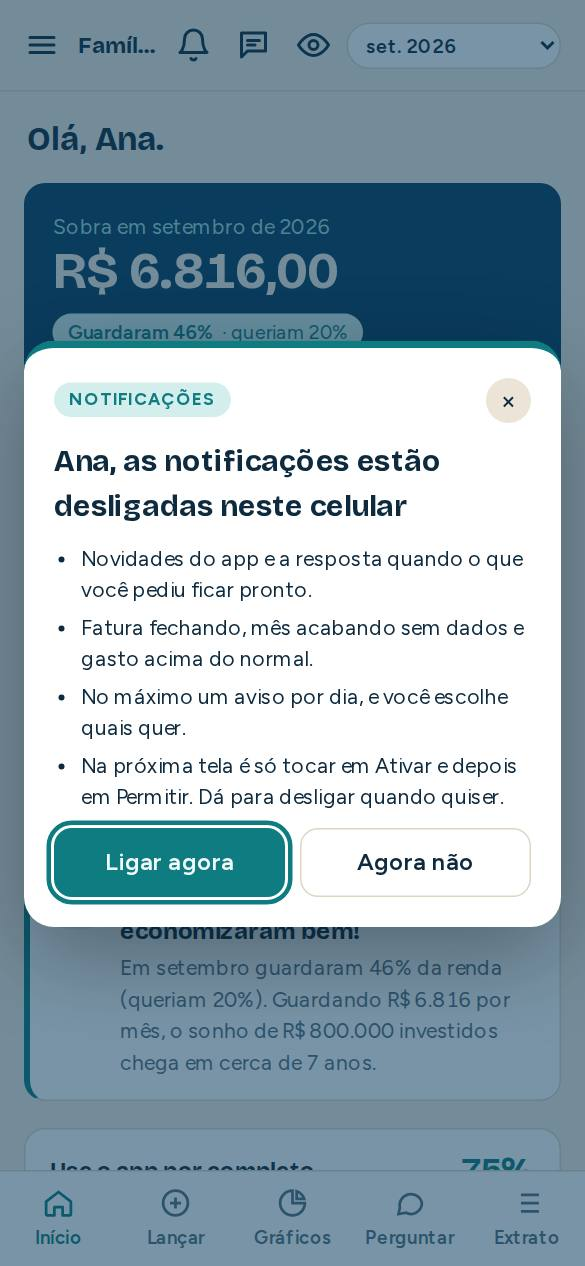
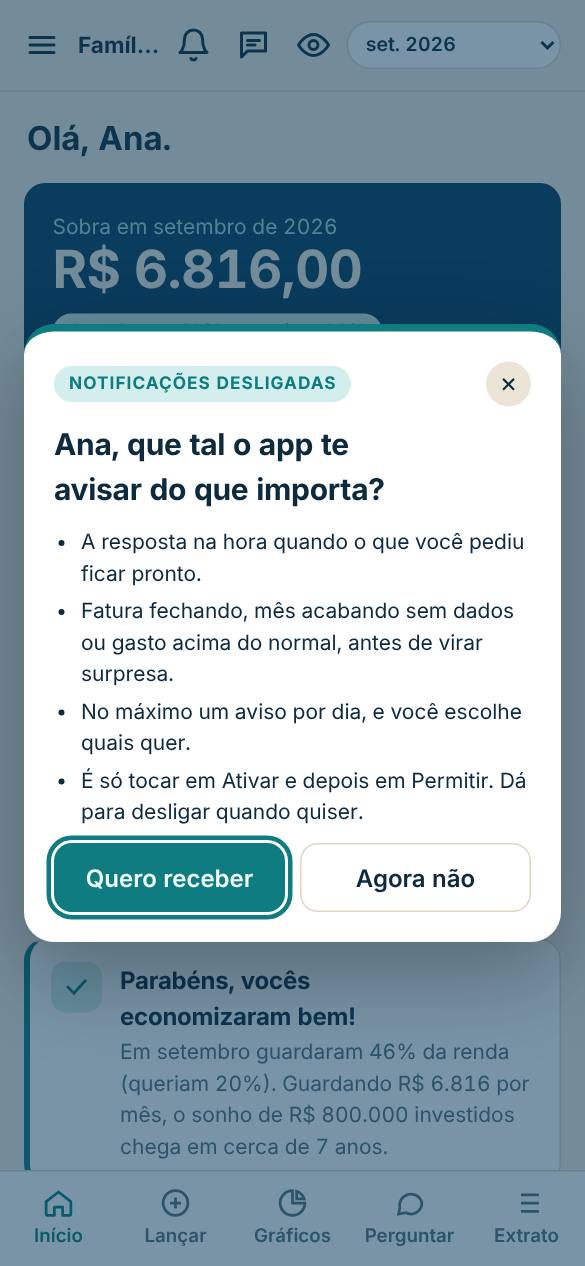
v62: invite-style text for the notifications-off pop-up
Claude-Session: https://claude.ai/code/session_01HTxyDPPEQrF1SknoQ9axHM

diff --git a/public/sw.js b/public/sw.js
@@ -1,6 +1,6 @@
 // Service worker: caches the app shell so it opens fast and installs as an app.
 // Data and /api calls always go to the network.
-const VERSION = 'v61';
+const VERSION = 'v62';
 const SHELL = ['/', '/index.html', '/css/app.css', '/js/main.js', '/js/db.js', '/js/ai.js', '/js/ui.js', '/js/state.js', '/js/speech.js', '/js/tour.js', '/js/steps.js', '/js/onboarding.js', '/js/art.js', '/js/install.js', '/js/push.js', '/js/metrics.js', '/js/privacy.js', '/js/lib/recurring.js', '/js/lib/settle.js', '/js/photos.js', '/js/menu.js', '/js/coach.js', '/js/views/graficos.js', '/js/views/fechar.js', '/js/lib/closing.js', '/js/lib/charts.js', '/js/lib/receipt.js', '/js/lib/insights.js', '/js/lib/budget.js', '/js/lib/pricing.js', '/js/lib/faq.js', '/js/feedback.js', '/js/usage.js', '/js/lib/navlog.js', '/js/applepay.js', '/js/lib/quick.js', '/js/lib/feed.js', '/js/messages.js', '/js/lib/news.js',
   '/js/lib/format.js', '/js/lib/calc.js', '/js/lib/categorize.js', '/js/lib/parse.js', '/js/lib/validate.js',
   '/js/views/resumo.js', '/js/views/lancar.js', '/js/views/perguntar.js', '/js/views/extrato.js', '/js/views/ajustes.js',

diff --git a/public/js/lib/releases.js b/public/js/lib/releases.js
@@ -128,4 +128,5 @@ export const RELEASES = [
   ] }, addBacklog: [
     { id: 'avisar_notificacao_desligada', title: 'Avisar quando as notificações estão desligadas e levar para ligar', status: 'feito', origin: 'Luiz', effort: 'P', problem: 'Ninguém procura ligar as notificações sozinho; sem elas, a pessoa não fica sabendo das novidades nem das respostas', cost: false, notes: 'Não força: o celular só pede permissão depois de um toque. O app avisa (pop-up com o nome, a cada 3 dias, até 4 vezes por celular, só quando não há outro pop-up), leva para menu ☰ → Notificações com o botão em destaque, e o menu mostra "Desligadas neste celular". Bloqueadas nos ajustes: mostra como liberar.', from: [], where: 'Ao abrir o app; menu ☰ → Notificações' },
   ] },
+  { id: 'r62', version: 'v62', at: '2026-11-03T14:05:00Z', backlog: [], semNovidade: 'Só o texto do aviso de notificações desligadas ficou mais convidativo ("que tal o app te avisar do que importa?"); a novidade já foi contada na v61.' },
 ];

diff --git a/public/js/usage.js b/public/js/usage.js
@@ -5,7 +5,7 @@ import * as db from './db.js';
 import { S } from './state.js';
 import { tapCell, tapLabel, cleanError } from './lib/navlog.js';
 
-export const APP_VERSION = 'v61';
+export const APP_VERSION = 'v62';
 const OK = /^[a-z_]{2,20}(\.[a-z_]{2,20})?$/;
 export const device = () => { const u = navigator.userAgent; return (/iphone|ipad/i.test(u) ? 'iPhone' : /android/i.test(u) ? 'Android' : /mac/i.test(u) ? 'Mac' : /windows/i.test(u) ? 'Windows' : 'Outro') + (window.matchMedia?.('(display-mode: standalone)').matches || navigator.standalone ? ' · app instalado' : ' · navegador'); };
 export const screenOf = () => S.tab === 'ajustes' ? 'menu.' + (S.sec || 'familia') : S.tab === 'resumo' ? 'inicio' : (S.tab || '');
